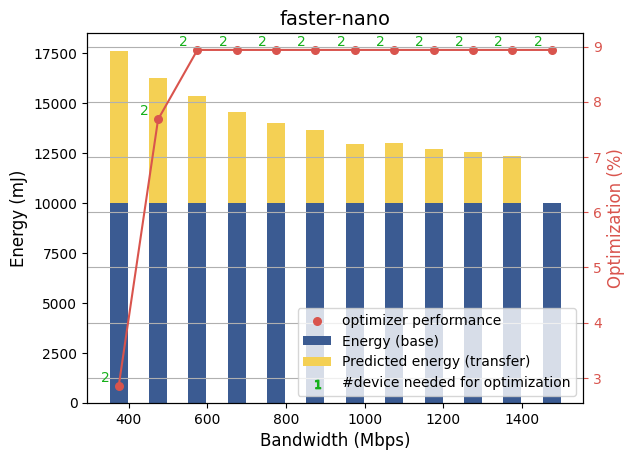
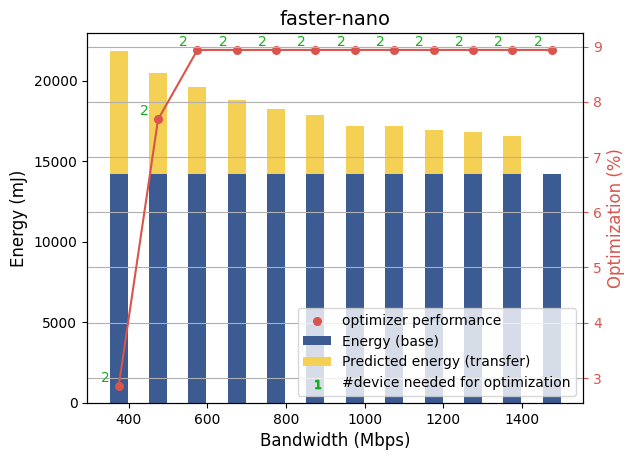
add base energy dict

diff --git a/PLT_energy/PYPLT_energy.py b/PLT_energy/PYPLT_energy.py
@@ -11,8 +11,8 @@ def draw(config):
         'yolor-agx': 0,
         'yolox-agx': 0,
         'yolov4-agx': 0,
-        'faster-nano': 0,
-        'yolor-nano': 0,
+        'faster-nano': 14213.7446,
+        'yolor-nano': 10447.9559,
         'yolox-nano': 13460.1792,
         'yolov4-nano': 0,
     }
